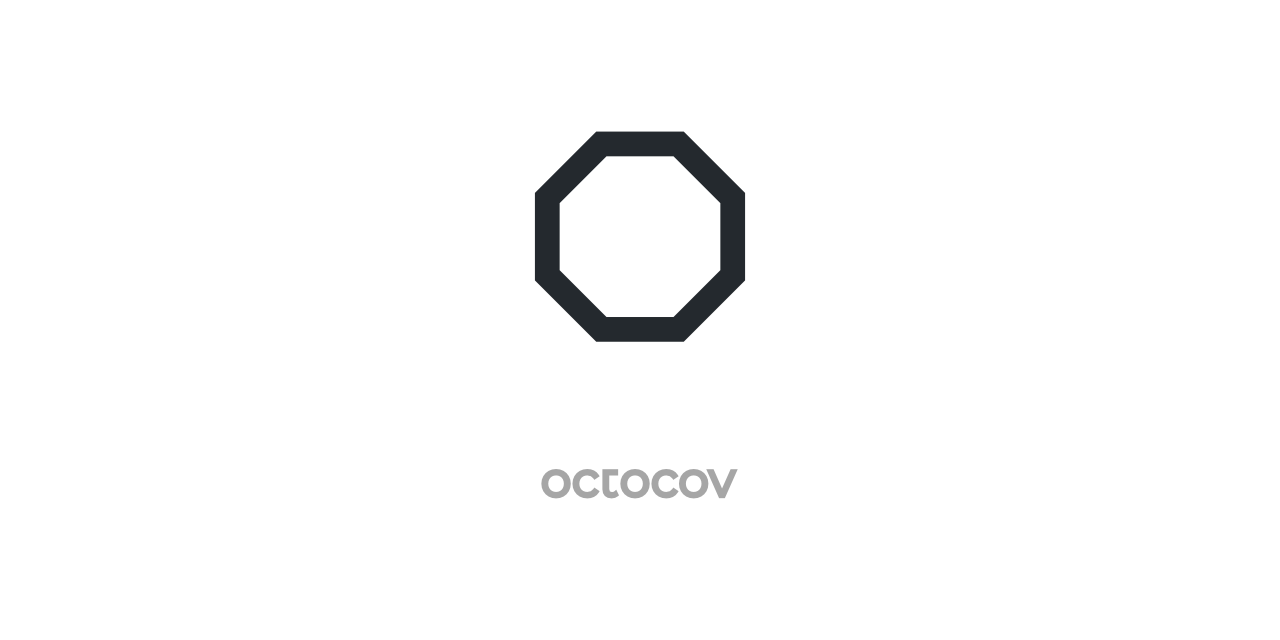
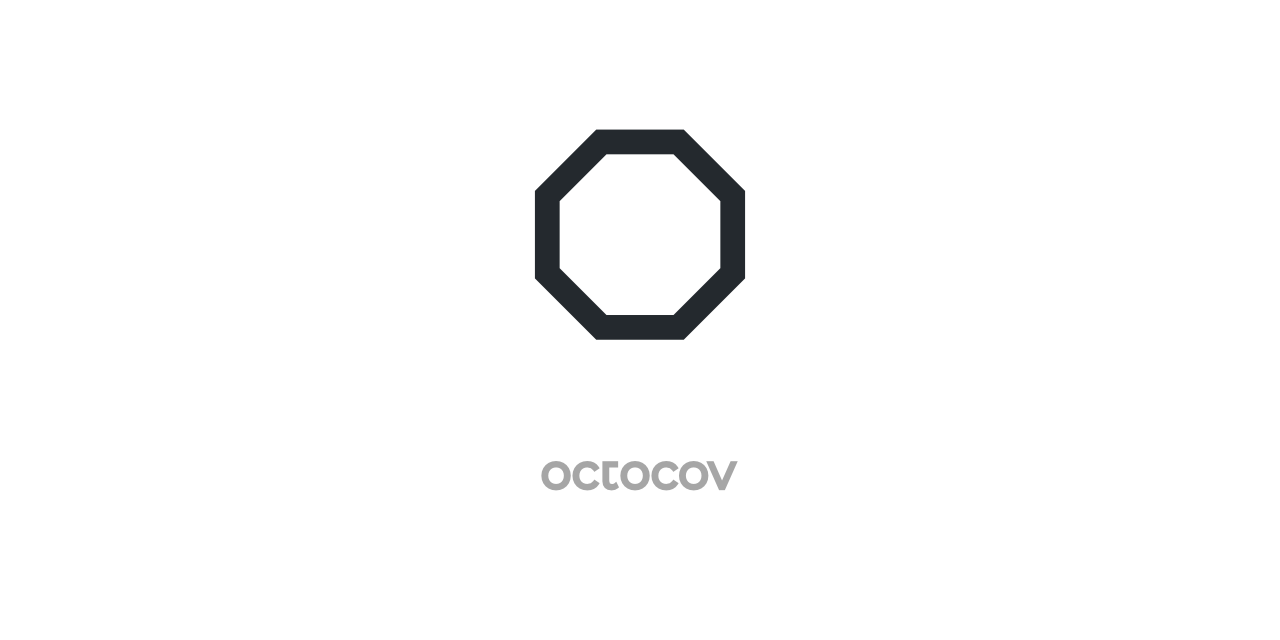
bonsai

Changed region(s): [[0.4062, 0.7188, 0.5938, 0.7812], [0.4375, 0.4688, 0.5625, 0.5312], [0.4688, 0.1875, 0.5312, 0.25]]

diff --git a/README.md b/README.md
@@ -1,7 +1,5 @@
 <p align="center">
-<br><br>
 <img src="https://github.com/k1LoW/octocov/raw/main/docs/logo.png" width="200" alt="octocov">
-<br><br><br>
 </p>
 
 [![build](https://github.com/k1LoW/octocov/actions/workflows/ci.yml/badge.svg)](https://github.com/k1LoW/octocov/actions) ![coverage](docs/coverage.svg) ![ratio](docs/ratio.svg) ![time](docs/time.svg)
